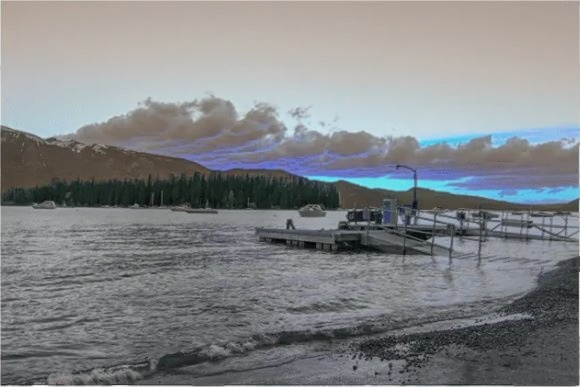
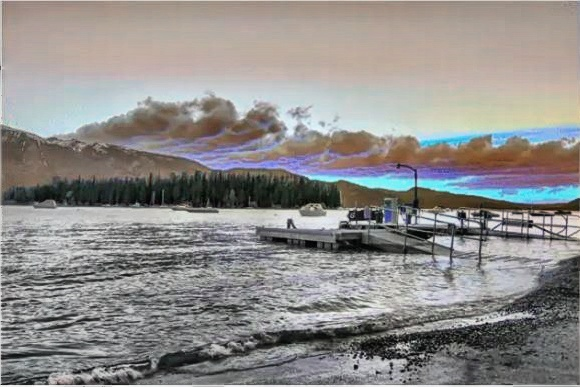
Specialized the project to work for architectural implementations

diff --git a/exposure_fusion.py b/exposure_fusion.py
@@ -4,13 +4,30 @@ import numpy as np
 def load_image(file_path):
     # Load an image from file path and convert it to RGB
     image = cv2.imread(file_path)
-    if image is not None:
+    if image is None:
+        print(f"Failed to load image from {file_path}")
+    else:
         image = cv2.cvtColor(image, cv2.COLOR_BGR2RGB)
     return image
 
 def resize_image(image, width, height):
     # Resize image to the given dimensions
     return cv2.resize(image, (width, height), interpolation=cv2.INTER_LINEAR)
+
+def align_images(images, width, height):
+    # Resize images before alignment to ensure they have the same dimensions
+    resized_images = [resize_image(img, width, height) for img in images if img is not None]
+    # Use MTB algorithm to align images
+    aligner = cv2.createAlignMTB()
+    aligner.process(resized_images, resized_images)
+    return resized_images
+
+def enhance_local_contrast(image):
+    # Using CLAHE (Contrast Limited Adaptive Histogram Equalization)
+    clahe = cv2.createCLAHE(clipLimit=2.0, tileGridSize=(8, 8))
+    channels = cv2.split(image)
+    enhanced_channels = [clahe.apply(ch) for ch in channels]
+    return cv2.merge(enhanced_channels)
 
 def exposure_fusion(image1_path, image2_path):
     # Load images
@@ -19,17 +36,19 @@ def exposure_fusion(image1_path, image2_path):
 
     # Check if images are loaded
     if img1 is None or img2 is None:
-        print("Error loading images")
         return None
 
-    # Ensure both images are the same size
+    # Standard size for alignment
     height, width, _ = img1.shape
-    img1 = resize_image(img1, width, height)
-    img2 = resize_image(img2, width, height)
 
-    # Convert images to float32 type
-    img1 = img1.astype(np.float32) / 255.0
-    img2 = img2.astype(np.float32) / 255.0
+    # Align images
+    images = align_images([img1, img2], width, height)
+    if not images or len(images) < 2:
+        print("Error aligning images or insufficient images for processing")
+        return None
+
+    # Convert images to float32 type for merging
+    img1, img2 = [img.astype(np.float32) / 255.0 for img in images]
 
     # Create an exposure fusion object
     merge_mertens = cv2.createMergeMertens()
@@ -37,13 +56,12 @@ def exposure_fusion(image1_path, image2_path):
     # Merge images
     fused_image = merge_mertens.process([img1, img2])
 
-    # Diagnostic: check the range of fused image values
-    print(f"Fused image range: min={fused_image.min()}, max={fused_image.max()}")
+    # Scale fused image to full 8-bit range
+    fused_image = cv2.normalize(fused_image, None, alpha=0, beta=255, norm_type=cv2.NORM_MINMAX)
+    fused_image = np.clip(fused_image, 0, 255).astype('uint8')
 
-    # Normalize the fused image
-    fused_image -= fused_image.min()  # shift to 0
-    fused_image /= fused_image.max()  # scale to 1
-    fused_image = (fused_image * 255).astype('uint8')  # scale to [0, 255]
+    # Enhance local contrast
+    fused_image = enhance_local_contrast(fused_image)
 
     return fused_image
 
@@ -54,6 +72,10 @@ if fused_img is not None:
     cv2.imwrite('fused_output.jpg', fused_img)
     print("Fusion complete, image saved as 'fused_output.jpg'")
 else:
-    print("Fusion failed.")
+    print("Fusion failed or no images to process.")
+
+
+
+
 
 
